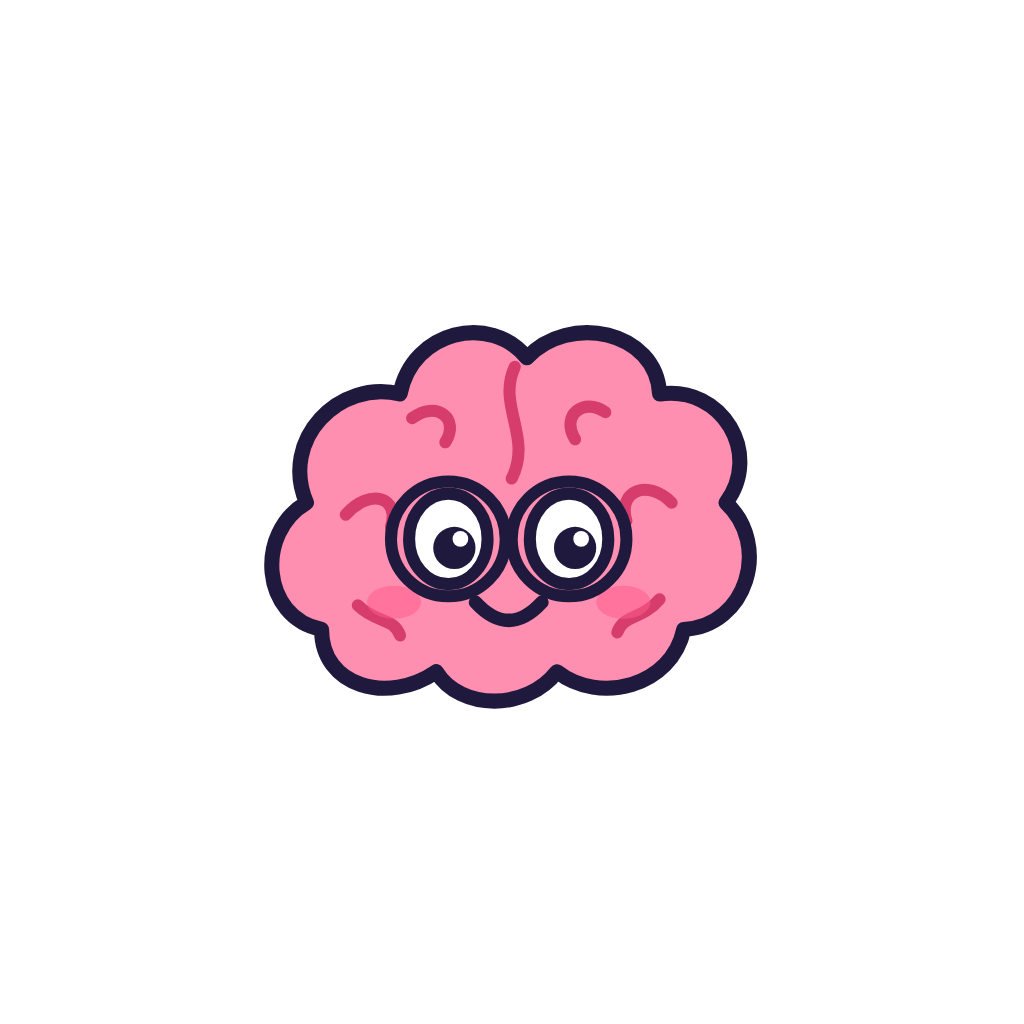
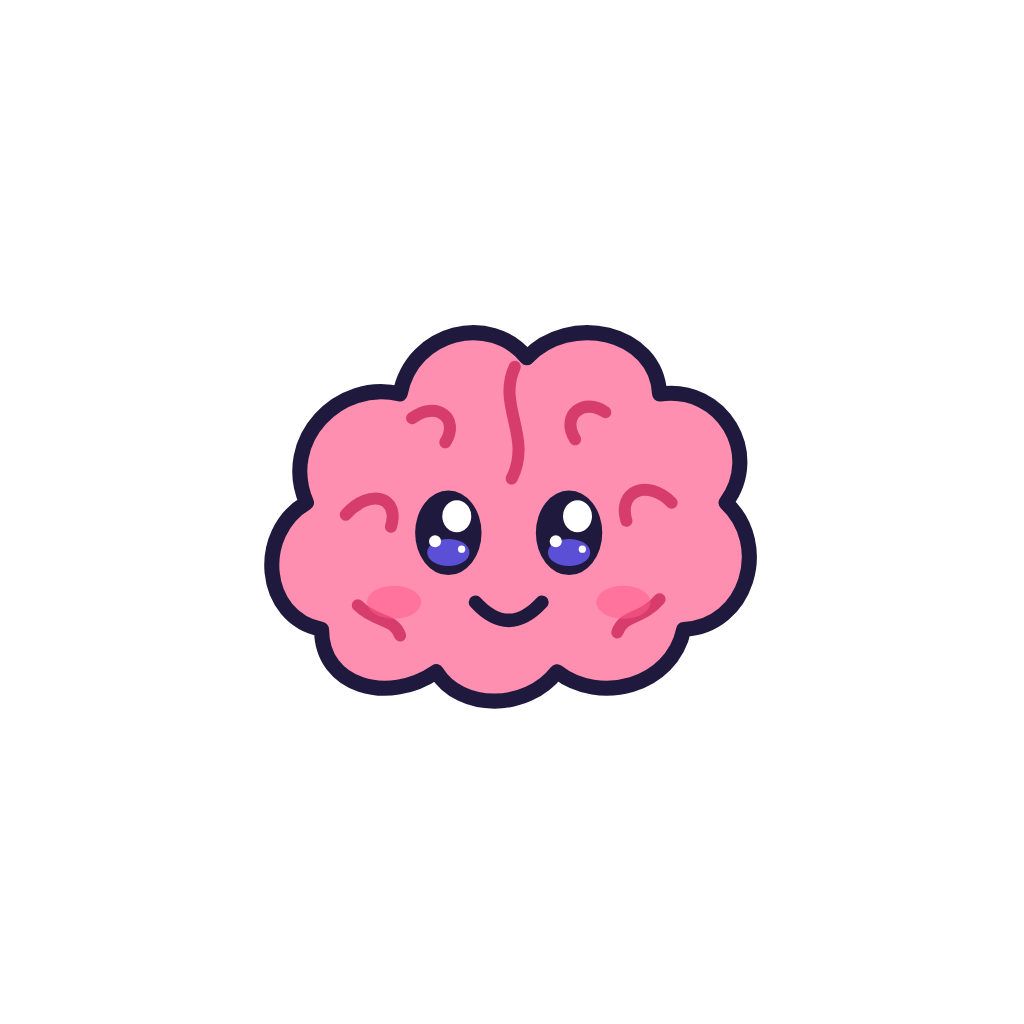
Mascotte : yeux kawaï (un seul rond par œil), un peu plus haut, sans lunettes sur l'icône
- Yeux dessinés une seule fois (eyeShapes dans geometry.ts) pour l'appli et
  le générateur d'icônes : ovale encre, reflet violet en bas, 3 reflets blancs.
  Humeur « wow » : un peu plus grands. « Dodo » inchangé.
- Yeux remontés de 3 unités ; lunettes et masque suivent.
- Icône, icône Android, écran de lancement, icône de notification et favicon
  régénérés sans lunettes.

Claude-Session: https://claude.ai/code/session_01YNgFjATS11oQipRLzsWoFF

Changed region(s): [[0.375, 0.4375, 0.625, 0.5938]]

diff --git a/src/components/mascot/geometry.ts b/src/components/mascot/geometry.ts
@@ -1,4 +1,4 @@
-// Shapes of Cervelle, the mascot: a round pink brain with big eyes.
+// Shapes of Cervelle, the mascot: a round pink brain with big kawaii eyes.
 // One source for the app (react-native-svg) and for the icon/splash
 // generator (scripts/make-assets.ts). viewBox: -10 -24 220 214.
 
@@ -18,9 +18,27 @@ export const FOLDS = [
 ];
 
 export const EYES = [
-  { cx: 82, cy: 110 },
-  { cx: 122, cy: 110 },
+  { cx: 82, cy: 107 },
+  { cx: 122, cy: 107 },
 ];
+
+/**
+ * One kawaii eye: a single dark oval, a violet glint at the bottom and three
+ * white sparkles. `big` (mood « wow ») scales it up a little. Shared by the
+ * app and the icon generator.
+ */
+export function eyeShapes(e: { cx: number; cy: number }, big = false): Shape[] {
+  const k = big ? 1.15 : 1;
+  const x = (d: number) => e.cx + d * k;
+  const y = (d: number) => e.cy + d * k;
+  return [
+    { kind: "ellipse", cx: x(0), cy: y(1), rx: 11 * k, ry: 14 * k, fill: INK },
+    { kind: "ellipse", cx: x(0), cy: y(7.5), rx: 7 * k, ry: 4.5 * k, fill: "#5B4FD6" },
+    { kind: "ellipse", cx: x(2.8), cy: y(-4.5), rx: 4.8 * k, ry: 5.3 * k, fill: "#FFFFFF" },
+    { kind: "circle", cx: x(-4.4), cy: y(3.8), r: 2 * k, fill: "#FFFFFF" },
+    { kind: "circle", cx: x(4.4), cy: y(6.4), r: 1.2 * k, fill: "#FFFFFF" },
+  ];
+}
 
 /** Accessory drawings, keyed by shop item id. `behindFace` ones go under the eyes. */
 export type Shape =
@@ -67,14 +85,14 @@ export const ACCESSORIES: Record<string, { behindFace?: boolean; shapes: Shape[]
   },
   lunettes: {
     shapes: [
-      { kind: "circle", cx: 82, cy: 110, r: 19, fill: "none", stroke: INK, strokeWidth: 4 },
-      { kind: "circle", cx: 122, cy: 110, r: 19, fill: "none", stroke: INK, strokeWidth: 4 },
-      { kind: "path", d: "M 101 108 C 102 105 102 105 103 108", fill: "none", stroke: INK, strokeWidth: 4 },
+      { kind: "circle", cx: 82, cy: 107, r: 19, fill: "none", stroke: INK, strokeWidth: 4 },
+      { kind: "circle", cx: 122, cy: 107, r: 19, fill: "none", stroke: INK, strokeWidth: 4 },
+      { kind: "path", d: "M 101 105 C 102 102 102 102 103 105", fill: "none", stroke: INK, strokeWidth: 4 },
     ],
   },
   masque: {
     behindFace: true,
-    shapes: [{ kind: "path", d: "M 50 100 C 72 90 134 90 156 100 L 152 126 C 132 118 74 118 54 126 Z", fill: "#E5484D", stroke: INK, strokeWidth: 4 }],
+    shapes: [{ kind: "path", d: "M 50 97 C 72 87 134 87 156 97 L 152 123 C 132 115 74 115 54 123 Z", fill: "#E5484D", stroke: INK, strokeWidth: 4 }],
   },
   noeud: {
     shapes: [

diff --git a/scripts/make-assets.ts b/scripts/make-assets.ts
@@ -23,15 +23,15 @@ const LINES_FILTER = `<svg width="0" height="0" style="position:absolute"><filte
 
 (async () => {
   fs.mkdirSync(out, { recursive: true });
-  await render("icon.png", 1024, centered(0.78, "#FFE3EC", ["lunettes"]), false);
+  await render("icon.png", 1024, centered(0.78, "#FFE3EC"), false);
   // Adaptive icon: the system crops to a circle/squircle, keep the drawing in the inner 60 %.
-  await render("android-icon-foreground.png", 1024, centered(0.56, null, ["lunettes"]), true);
+  await render("android-icon-foreground.png", 1024, centered(0.56, null), true);
   await render("android-icon-background.png", 1024, `<div style="width:100%;height:100%;background:#FFE3EC"></div>`, false);
   await render("android-icon-monochrome.png", 1024, centered(0.56, null).replace(/#FF8FB1/g, "#000"), true);
   // Small icon of the notifications: Android only keeps the alpha, so draw the lines in white
   // (light fills become transparent, dark lines opaque).
   await render("notification-icon.png", 96, `${LINES_FILTER}<div style="width:100%;height:100%;filter:url(#lines)">${centered(0.86, null).replace(/#FF8FB1/g, "#FFF")}</div>`, true);
-  await render("splash-icon.png", 512, centered(0.9, null, ["lunettes"]), true);
+  await render("splash-icon.png", 512, centered(0.9, null), true);
   await render("favicon.png", 64, centered(0.95, null), true);
   console.log("assets written to", out);
 })();

diff --git a/scripts/mascot-svg.ts b/scripts/mascot-svg.ts
@@ -1,4 +1,4 @@
-import { ACCESSORIES, BRAIN, EYES, FOLDS, INK_COLOR, VIEWBOX, type Shape } from "../src/components/mascot/geometry";
+import { ACCESSORIES, BRAIN, EYES, eyeShapes, FOLDS, INK_COLOR, VIEWBOX, type Shape } from "../src/components/mascot/geometry";
 
 // The mascot as a plain SVG string (for the icon and splash generator).
 
@@ -23,7 +23,7 @@ export function mascotSvg(opts: { accessories?: string[]; viewBox?: string; body
 <path d="${BRAIN}" fill="${body}" stroke="${INK_COLOR}" stroke-width="5" stroke-linejoin="round"/>
 ${FOLDS.map((d) => `<path d="${d}" fill="none" stroke="#D63D6C" stroke-width="4" stroke-linecap="round"/>`).join("")}
 ${acc.filter((a) => a.behindFace).flatMap((a) => a.shapes.map(shape)).join("")}
-${EYES.map((e) => `<ellipse cx="${e.cx}" cy="${e.cy}" rx="13" ry="15" fill="#fff" stroke="${INK_COLOR}" stroke-width="4"/><circle cx="${e.cx + 2}" cy="${e.cy + 3}" r="7" fill="${INK_COLOR}"/><circle cx="${e.cx + 4}" cy="${e.cy}" r="2.6" fill="#fff"/>`).join("")}
+${EYES.flatMap((e) => eyeShapes(e).map(shape)).join("")}
 <ellipse cx="64" cy="131" rx="9" ry="5.5" fill="#FF5C8A" opacity="0.55"/><ellipse cx="140" cy="131" rx="9" ry="5.5" fill="#FF5C8A" opacity="0.55"/>
 <path d="M 91 131 Q 102 143 113 131" fill="none" stroke="${INK_COLOR}" stroke-width="4.5" stroke-linecap="round"/>
 ${acc.filter((a) => !a.behindFace).flatMap((a) => a.shapes.map(shape)).join("")}

diff --git a/src/components/mascot/Mascot.tsx b/src/components/mascot/Mascot.tsx
@@ -1,5 +1,5 @@
 import Svg, { Circle, Ellipse, G, Path, Rect } from "react-native-svg";
-import { ACCESSORIES, BRAIN, EYES, FOLDS, INK_COLOR, VIEWBOX, type Shape } from "./geometry";
+import { ACCESSORIES, BRAIN, EYES, eyeShapes, FOLDS, INK_COLOR, VIEWBOX, type Shape } from "./geometry";
 
 export type Mood = "happy" | "wow" | "sad" | "sleep";
 
@@ -32,9 +32,9 @@ export function Mascot({ size = 120, accessories = [], mood = "happy" }: { size?
           <Path key={e.cx} d={`M ${e.cx - 11} ${e.cy + 2} Q ${e.cx} ${e.cy + 10} ${e.cx + 11} ${e.cy + 2}`} fill="none" stroke={INK_COLOR} strokeWidth={4} strokeLinecap="round" />
         ) : (
           <G key={e.cx}>
-            <Ellipse cx={e.cx} cy={e.cy} rx={13} ry={mood === "wow" ? 17 : 15} fill="#fff" stroke={INK_COLOR} strokeWidth={4} />
-            <Circle cx={e.cx + 2} cy={e.cy + 3} r={7} fill={INK_COLOR} />
-            <Circle cx={e.cx + 4} cy={e.cy} r={2.6} fill="#fff" />
+            {eyeShapes(e, mood === "wow").map((sh, j) => (
+              <ShapeView key={j} s={sh} />
+            ))}
           </G>
         ),
       )}
